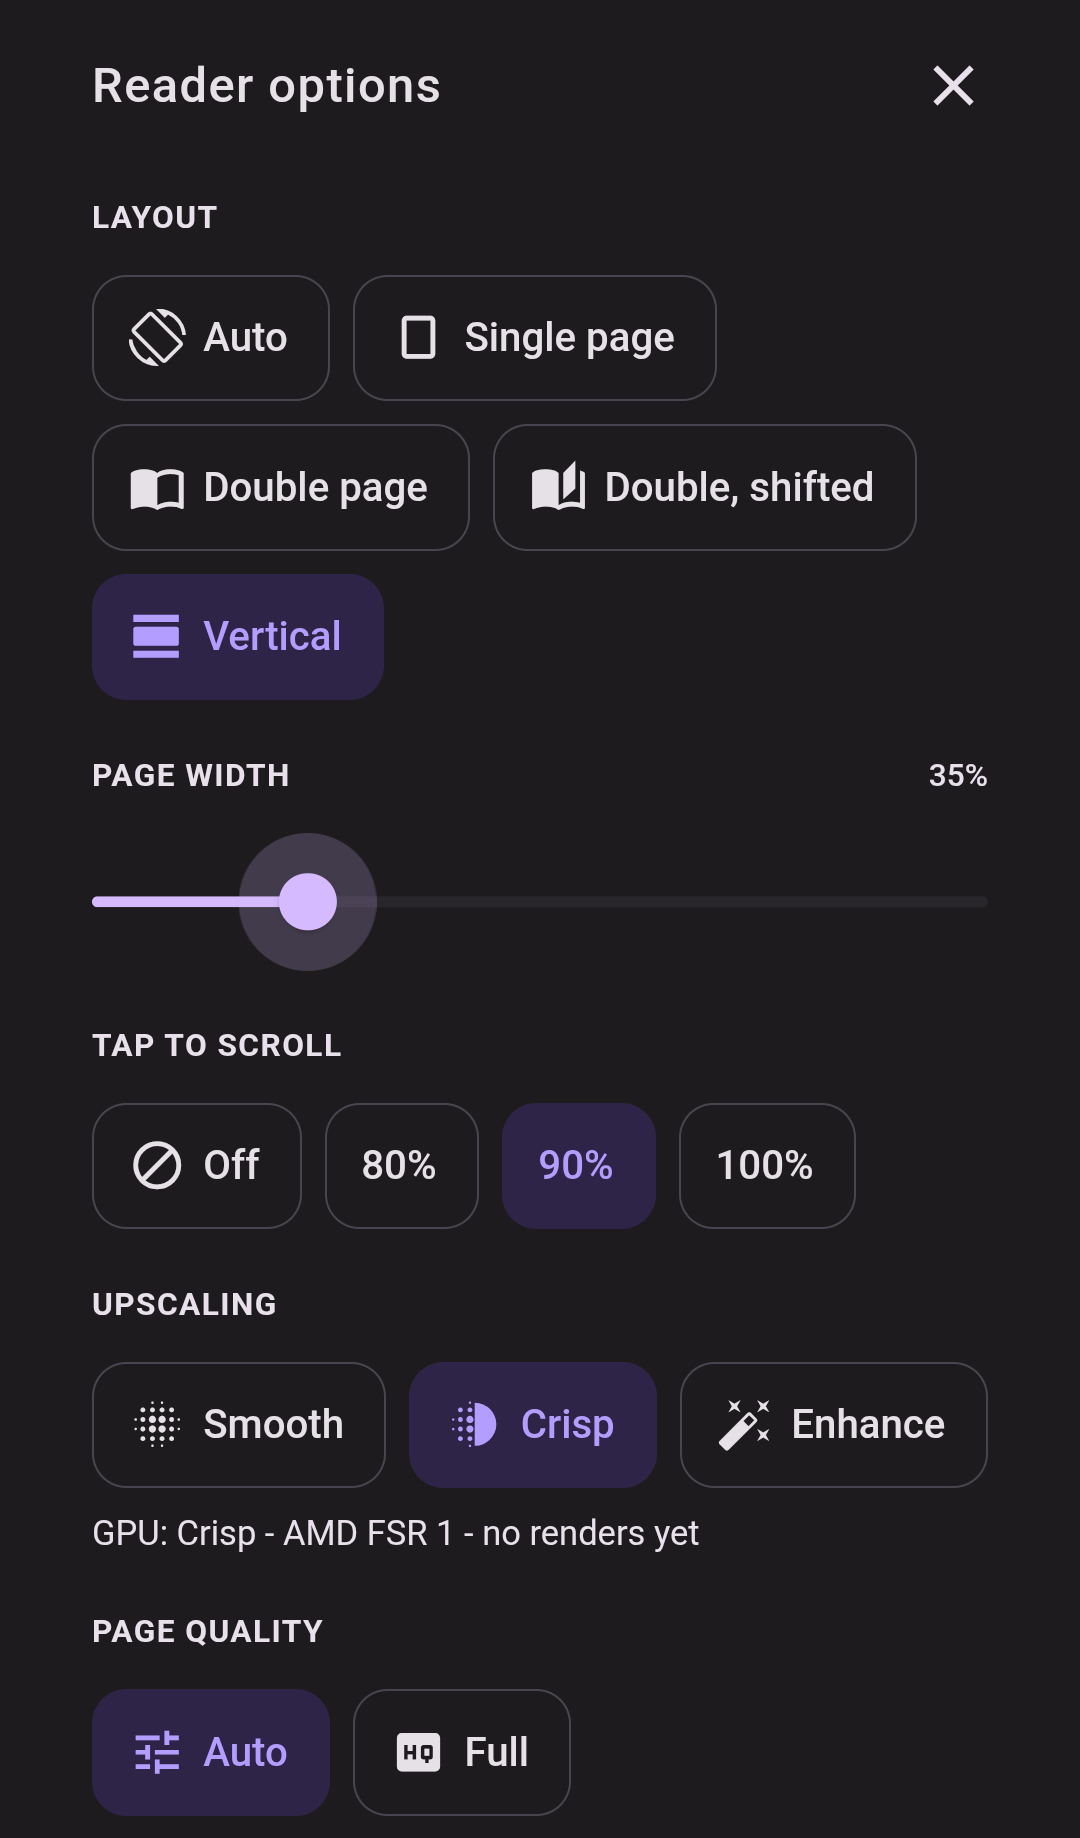
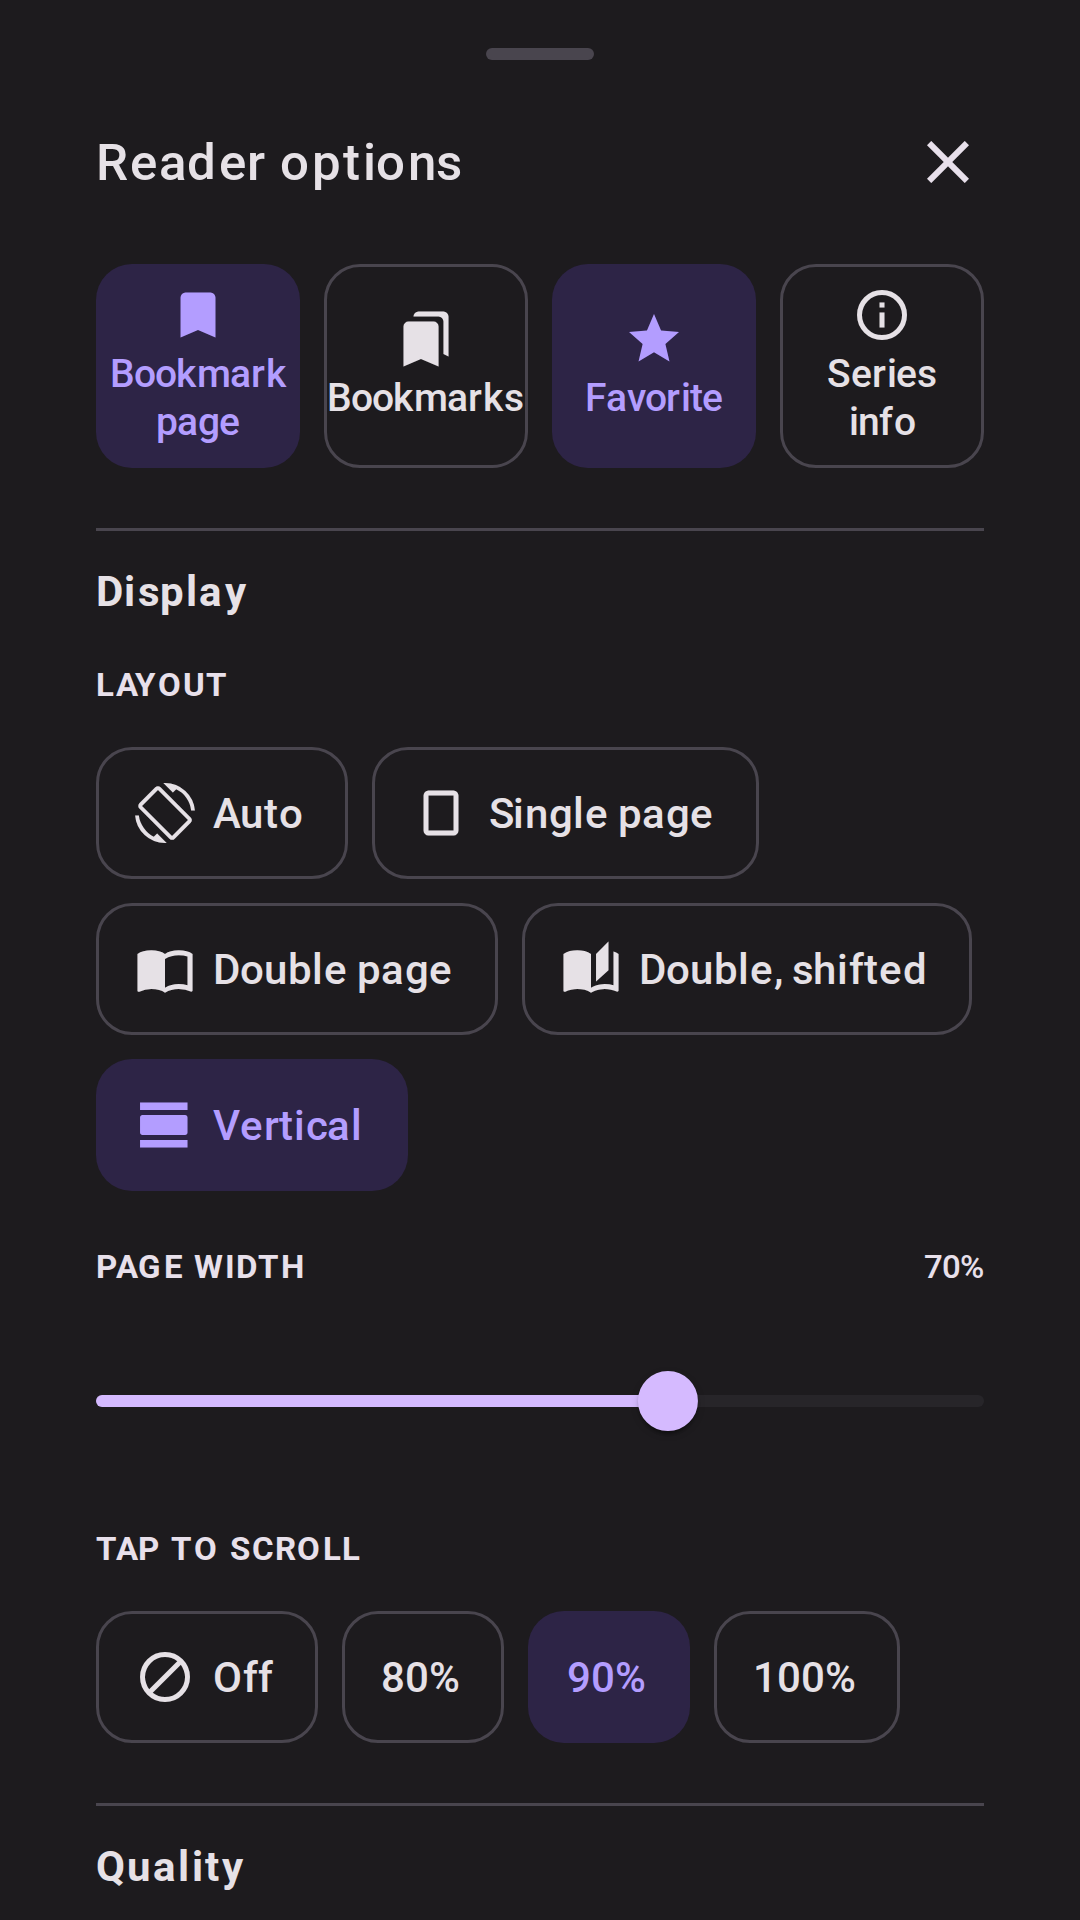
docs(reader): toolbar and phone sheet screenshots of the grouped bar (synthetic page)

diff --git a/docs/reader.md b/docs/reader.md
@@ -4,7 +4,7 @@ Select any archive in a library to open it in the reader. This page covers the r
 
 ![The reader on desktop: a single page centered on a dark background, the toolbar above and the page slider below](../assets/screenshots/docs-reader-desktop.png)
 
-![The reader toolbar on desktop: back arrow and page counter on the left; previous and next archive, reading mode, image fit, direction, page transition, help and fullscreen on the right](../assets/screenshots/docs-reader-toolbar-desktop.png)
+![The reader toolbar on desktop: back arrow, page counter and the archive's name on the left; previous and next archive, Series info, the bookmark menu, the favorite star, the Display and Quality menus, help and fullscreen on the right](../assets/screenshots/docs-reader-toolbar-desktop.png)
 
 ## Toolbar
 
@@ -49,7 +49,7 @@ On screens narrower than 600 px, the toolbar keeps only **Next archive**, **Full
 
 Changing a setting, bookmarking the page or favoriting the archive keeps the sheet open.
 
-![The Reader options bottom sheet on a phone in vertical mode: Layout, Page width, Tap to scroll, Upscaling with Crisp selected (AMD FSR 1), and Page quality](../assets/screenshots/docs-reader-phone-options.png)
+![The Reader options bottom sheet on a phone in vertical mode: the Bookmark page, Bookmarks, Favorite and Series info tiles, then the Display section with Layout, Page width and Tap to scroll, and the start of the Quality section](../assets/screenshots/docs-reader-phone-options.png)
 
 ## Page modes
 
